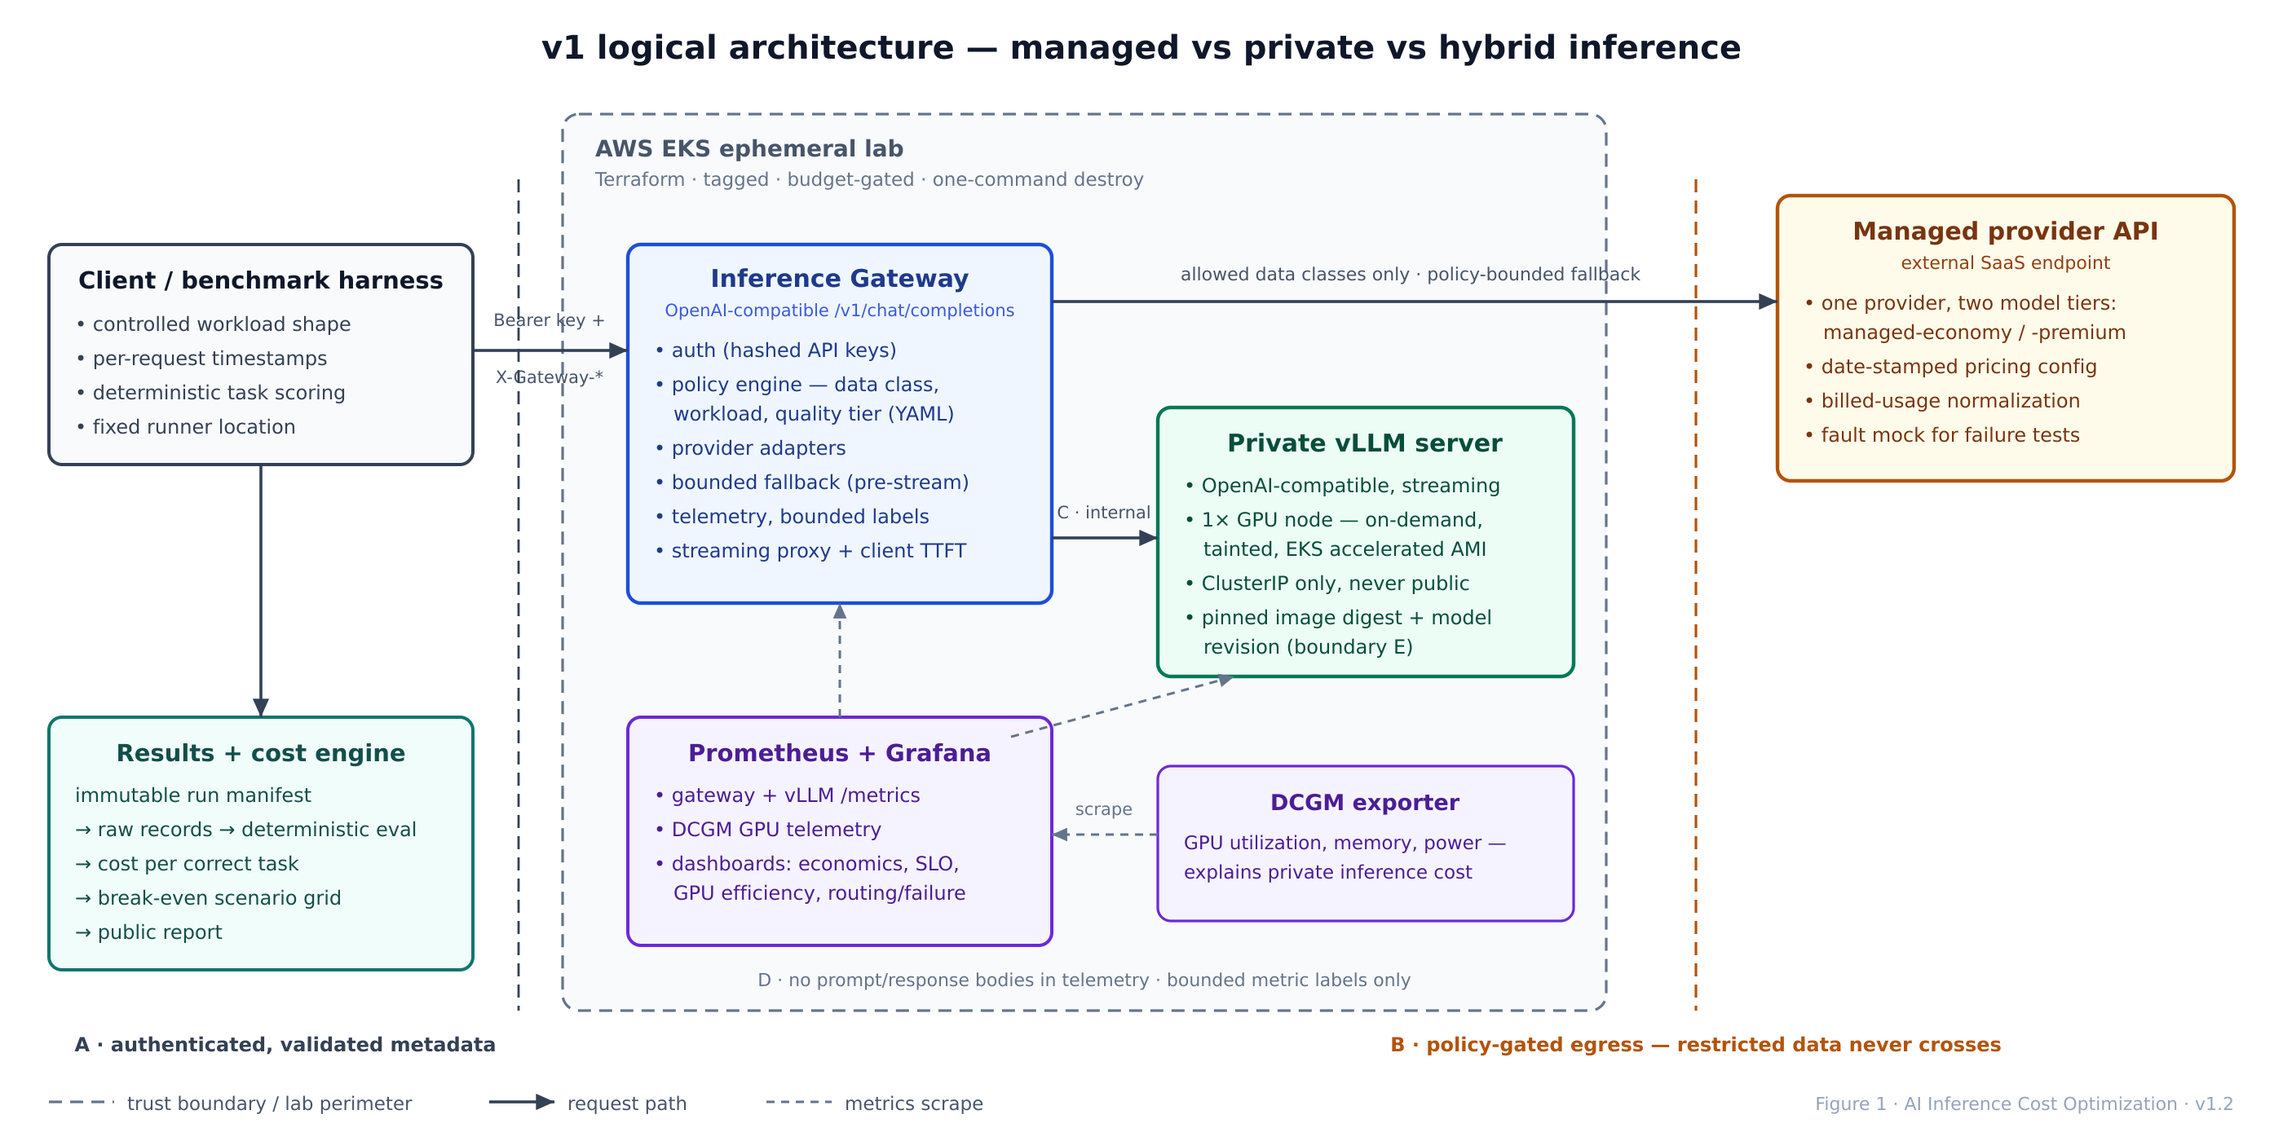
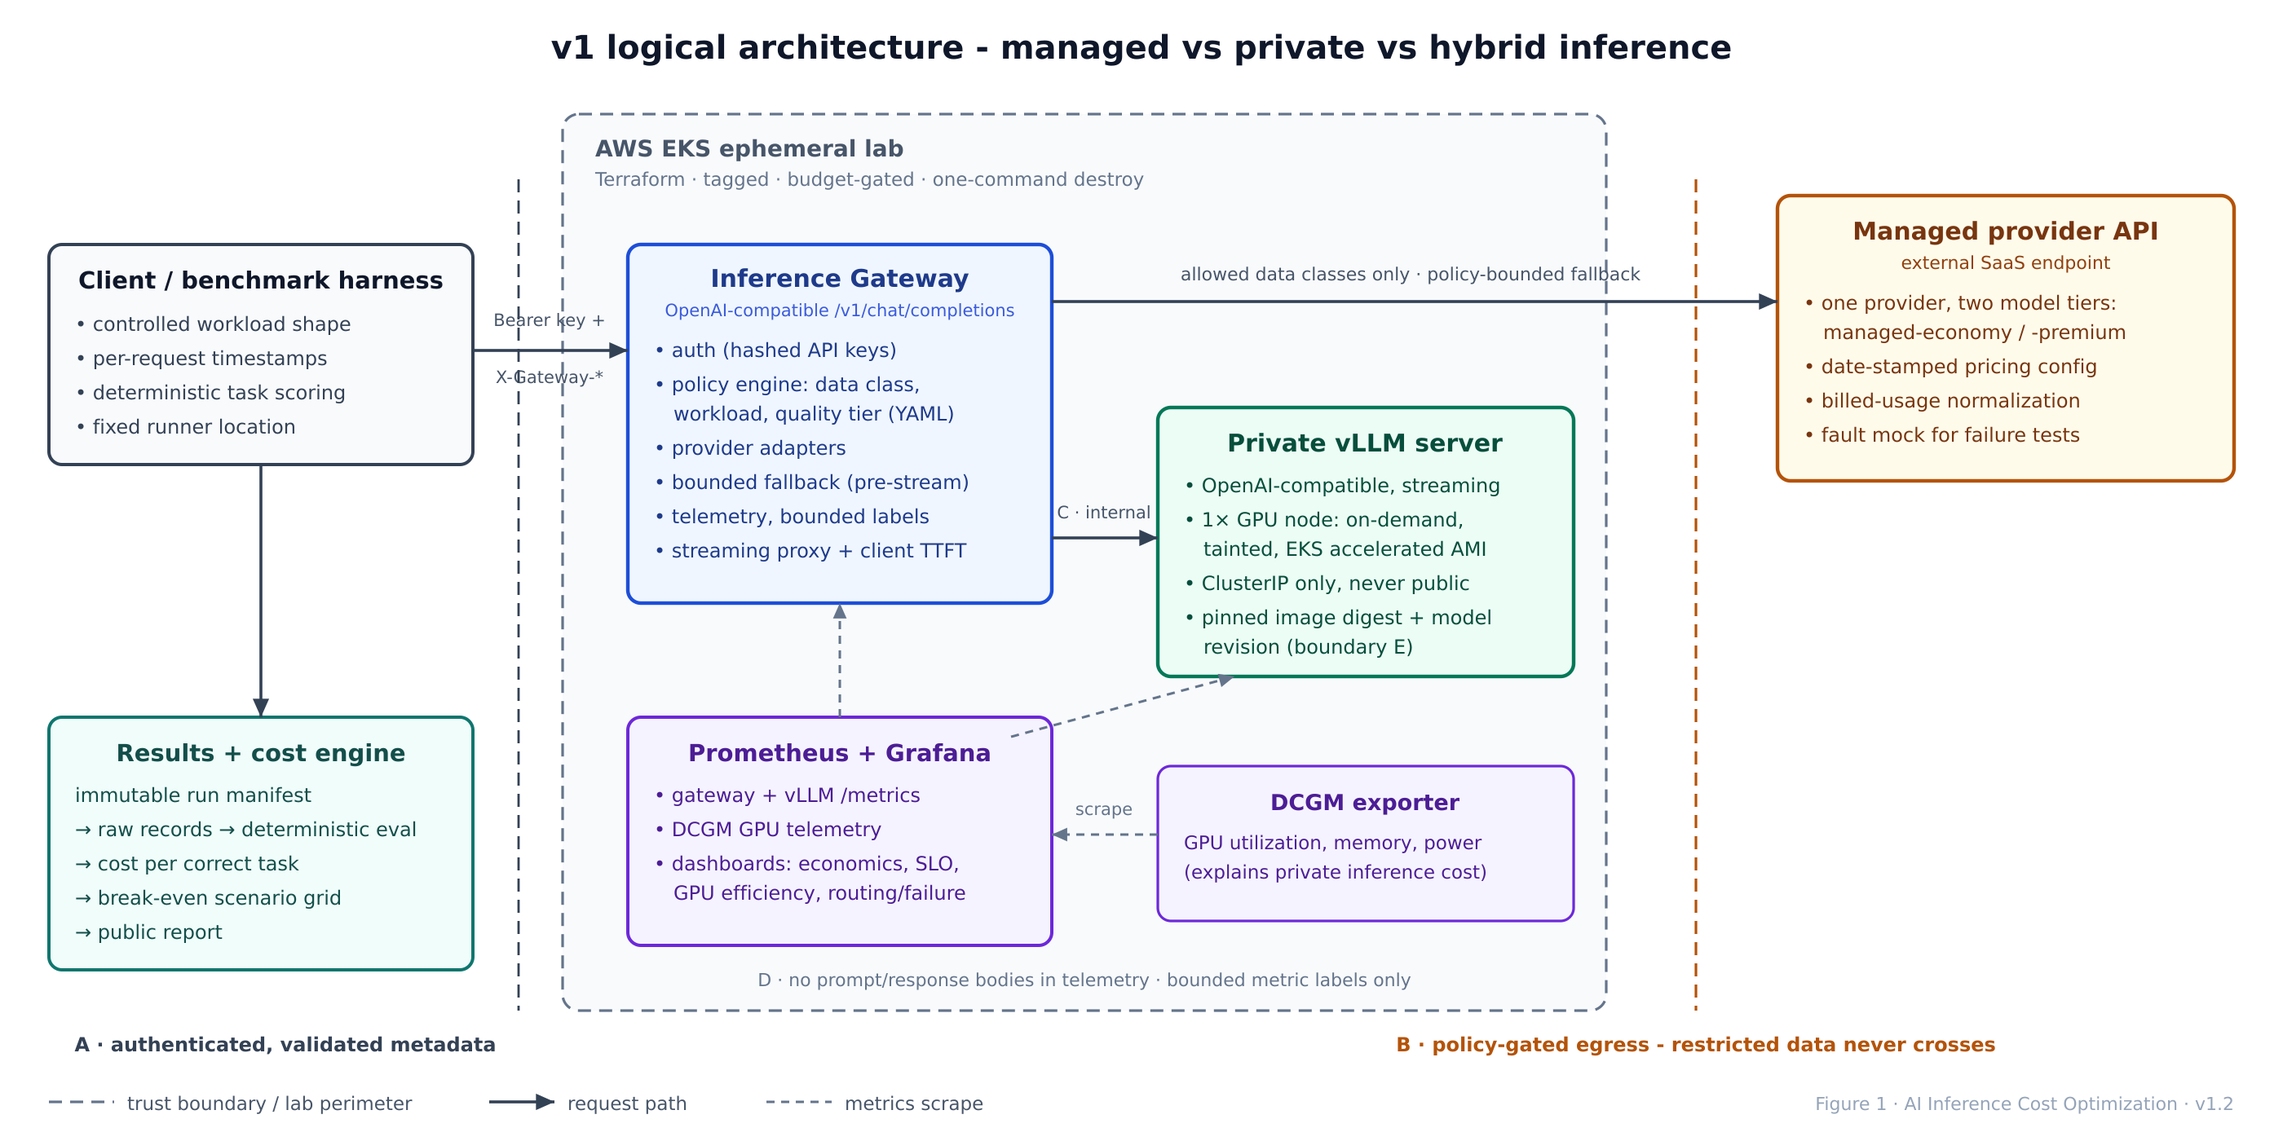
Tidy punctuation in docs and regenerate figure 1

diff --git a/TECHNICAL_SPEC.md b/TECHNICAL_SPEC.md
@@ -5,7 +5,7 @@
 
 Agent handoff for Claude / Codex | Version 1.2 | 15 August 2026
 
-> **North-star engineering question** — What is the lowest-cost production AI inference architecture that still meets defined quality, latency, reliability, security and availability requirements? The repository must answer this with reproducible evidence—not with a list of technologies.
+> **North-star engineering question** - What is the lowest-cost production AI inference architecture that still meets defined quality, latency, reliability, security and availability requirements? The repository must answer this with reproducible evidence, not with a list of technologies.
 
 **This specification is authoritative for v1. If an implementation choice conflicts with this document, either follow the spec or create an ADR explaining the change before coding it.**
 
@@ -103,7 +103,7 @@ The v1 implementation compares three delivery patterns under a common workload a
 
 ## 1.2 Durable engineering thesis
 
-> **Durable layer** — The business moat is not Kubernetes, vLLM, KServe, llm-d, any GPU model or any LLM vendor. The durable capability is: measure -> model economics -> architect -> optimize -> validate quality/SLO -> automate -> operate -> prove ROI. This specification therefore makes adapters, policies, benchmarks and evidence first-class, while treating runtimes as replaceable implementations.
+> **Durable layer** - The business moat is not Kubernetes, vLLM, KServe, llm-d, any GPU model or any LLM vendor. The durable capability is: measure -> model economics -> architect -> optimize -> validate quality/SLO -> automate -> operate -> prove ROI. This specification therefore makes adapters, policies, benchmarks and evidence first-class, while treating runtimes as replaceable implementations.
 
 ## 1.3 Non-negotiable engineering principles
 
@@ -188,11 +188,11 @@ The v1 implementation compares three delivery patterns under a common workload a
 | P1 - only after baseline | KEDA scale-out using queue metrics, Karpenter GPU provisioning/consolidation experiment, Spot experiment, persistent cost ledger or hard budget policy, richer traces, NetworkPolicy hardening, actual AWS Cost Explorer reconciliation, energy/request estimate. |
 | P2 - future extension    | KServe LLMInferenceService, Gateway API Inference Extension/llm-d, prefix-cache-aware routing, disaggregated prefill/decode, multi-GPU/multi-node, RAG authorization, agents/tools, multi-cloud, private/on-prem reference deployment.                            |
 
-> **Scope freeze** — Claude/Codex must not start P1 or P2 work to “complete the architecture” while any P0 acceptance criterion is failing. P1/P2 issues remain labeled and unassigned until the baseline report exists.
+> **Scope freeze** - Claude/Codex must not start P1 or P2 work to “complete the architecture” while any P0 acceptance criterion is failing. P1/P2 issues remain labeled and unassigned until the baseline report exists.
 
 # 4. System architecture
 
-![Figure 1 — v1 logical architecture](media/figure1_architecture.png)
+![Figure 1 - v1 logical architecture](media/figure1_architecture.png)
 
 Figure 1. v1 logical architecture. The custom gateway is intentionally thin: provider abstraction, policy, telemetry and failure handling. It must not become a general orchestration framework.
 
@@ -486,7 +486,7 @@ Timeouts are validated duration fields, applied to streaming and non-streaming p
 
 # 9. Benchmark and quality-evaluation specification
 
-![Figure 2 — benchmark evidence pipeline](media/image2.png)
+![Figure 2 - benchmark evidence pipeline](media/image2.png)
 
 Figure 2. Benchmark evidence pipeline. The run manifest is created before load begins, not reconstructed after the fact.
 
@@ -670,15 +670,15 @@ An out-of-cluster VPC runner requires an internal NLB/ALB or private Gateway, is
 
 - Every published comparison reports and labels both economic views:
 
-  - **View A — inference service economics (marginal):** managed cost includes token usage and provider-specific charges; private cost includes GPU runtime and private-serving-specific infrastructure. Shared platform costs are excluded from both. This view answers which inference mechanism is cheaper.
+  - **View A - inference service economics (marginal):** managed cost includes token usage and provider-specific charges; private cost includes GPU runtime and private-serving-specific infrastructure. Shared platform costs are excluded from both. This view answers which inference mechanism is cheaper.
 
-  - **View B — full-platform TCO:** both architectures include inference cost plus gateway runtime, network/NAT, control plane, storage, observability and an operations/engineering allocation. This view answers which architecture costs the organization less.
+  - **View B - full-platform TCO:** both architectures include inference cost plus gateway runtime, network/NAT, control plane, storage, observability and an operations/engineering allocation. This view answers which architecture costs the organization less.
 
 - Cost per request for each view.
 
 - Cost per 1M provider-billed/normalized tokens (only when token definition is meaningful and clearly labeled).
 
-- `cost_per_correct_task` for each view—the primary business metric.
+- `cost_per_correct_task` for each view, the primary business metric.
 
 - Monthly modeled cost across a volume × token-profile × quality-rate grid.
 
@@ -801,7 +801,7 @@ v1 deliberately uses standard EKS managed node groups. EKS Auto Mode is a consid
 
 ## 11.4 Cost safety controls
 
-> **Cloud safety gate** — No script may create GPU infrastructure unless the operator explicitly supplies/accepts a run budget and GPU count. The repository must provide cloud-down and verify-destroy before the first publishable benchmark is attempted.
+> **Cloud safety gate** - No script may create GPU infrastructure unless the operator explicitly supplies/accepts a run budget and GPU count. The repository must provide cloud-down and verify-destroy before the first publishable benchmark is attempted.
 
 - Terraform validation limits default GPU node count to 1 for P0.
 
@@ -1073,7 +1073,7 @@ Every target must return a meaningful non-zero exit code on failure. cloud-down 
 
 # 18. Milestones and implementation issue map
 
-![Figure 3 — delivery sequence](media/image3.png)
+![Figure 3 - delivery sequence](media/image3.png)
 
 Figure 3. Delivery sequence. Do not parallelize cloud complexity ahead of local contracts and measurement plumbing.
 
@@ -1267,7 +1267,7 @@ The v1 public Chat Completions surface is an interoperability adapter, not the i
 
 # 23. Agent execution contract
 
-> **Instruction to Claude/Codex** — Build the smallest complete system that satisfies the current milestone. Do not optimize for lines of code, number of tools or visual complexity. Optimize for reproducible evidence and a clean public case study.
+> **Instruction to Claude/Codex** - Build the smallest complete system that satisfies the current milestone. Do not optimize for lines of code, number of tools or visual complexity. Optimize for reproducible evidence and a clean public case study.
 
 ## 23.1 Required behavior for every agent change
 
@@ -1580,7 +1580,7 @@ These sources are included so implementation agents use current primary document
 
 # Final implementation directive
 
-> **Ship evidence, not architecture diagrams** — The first public release is complete when a reviewer can see the business decision, inspect the code and assumptions, rerun the lab, examine real benchmark records, understand what failed, and verify why one architecture is economically preferable under a stated workload. If a feature does not improve that evidence, defer it.
+> **Ship evidence, not architecture diagrams** - The first public release is complete when a reviewer can see the business decision, inspect the code and assumptions, rerun the lab, examine real benchmark records, understand what failed, and verify why one architecture is economically preferable under a stated workload. If a feature does not improve that evidence, defer it.
 
 # Changelog
 

diff --git a/docs/implementation-status.md b/docs/implementation-status.md
@@ -54,7 +54,7 @@ linted and zero failed for each of gateway and vLLM. The standalone Helm renderi
 3 passed. Direct `uv` commands used `UV_CACHE_DIR=/tmp/gateway-uv-cache` because the default cache
 filesystem is read-only in this environment.
 
-## Previous milestone: M5 — vLLM serving and observability (offline implementation complete)
+## Previous milestone: M5 - vLLM serving and observability (offline implementation complete)
 
 | Item | Status |
 |---|---|
@@ -66,7 +66,7 @@ filesystem is read-only in this environment.
 | Benchmark manifest consumption of model revision, image digest, runtime, GPU, and chart pins | Implemented; unit tested |
 | Live gateway-to-vLLM completion and vLLM/GPU metric visibility | Pending operator credentials, budget, model/image resolution, and cluster creation |
 
-## Previous milestone: M4 — AWS EKS + GPU infrastructure (offline implementation complete)
+## Previous milestone: M4 - AWS EKS + GPU infrastructure (offline implementation complete)
 
 | Item | Status |
 |---|---|
@@ -80,7 +80,7 @@ filesystem is read-only in this environment.
 | Path-filtered Terraform/Helm/config-scan CI | Implemented |
 | Fresh create, M5 smoke, destroy, and verify-destroy cycle | Pending operator inputs and M5 workload deployment |
 
-## Previous milestone: M3 — Local/mock end-to-end evidence (complete)
+## Previous milestone: M3 - Local/mock end-to-end evidence (complete)
 
 | Item | Status |
 |---|---|
@@ -94,7 +94,7 @@ filesystem is read-only in this environment.
 | CI integration and separate smoke jobs | Done |
 | Local-lab runbook | Done |
 
-## Previous milestone: M2 — Benchmark + eval (complete)
+## Previous milestone: M2 - Benchmark + eval (complete)
 
 | Item | Status |
 |---|---|
@@ -109,7 +109,7 @@ filesystem is read-only in this environment.
 | Local mock report path producing summary, quality, cost, and comparison files | Done |
 | Unit, contract, and integration coverage for issues #11 through #16 | Done |
 
-## Previous milestone: M1 — Gateway + adapters (complete)
+## Previous milestone: M1 - Gateway + adapters (complete)
 
 | Item | Status |
 |---|---|
@@ -123,7 +123,7 @@ filesystem is read-only in this environment.
 | Prometheus metrics per spec §13.1 with bounded labels | Done |
 | Routing acceptance tests: all data_class × quality_tier cells, fail-closed, no-replay, sentinel log check | Done |
 
-## Previous milestone: M0 — Repo + contracts (complete)
+## Previous milestone: M0 - Repo + contracts (complete)
 
 | Item | Status |
 |---|---|
@@ -175,21 +175,21 @@ filesystem is read-only in this environment.
   referenced SLO cells. An initial direct invocation without the writable cache override failed
   before test collection because the default uv cache filesystem is read-only.
 
-- `export PATH="$HOME/.local/bin:$PATH" && uv --version && uv lock` — failed before
+- `export PATH="$HOME/.local/bin:$PATH" && uv --version && uv lock` - failed before
   resolution because the default cache path was read-only. The Makefile now exports
   `UV_CACHE_DIR=/tmp/gateway-uv-cache` by default.
 - `export PATH="$HOME/.local/bin:$PATH" && export UV_CACHE_DIR=/tmp/gateway-uv-cache && uv lock`
-  — failed because DNS access to the package index was unavailable in the execution environment.
+  - failed because DNS access to the package index was unavailable in the execution environment.
 - `export PATH="$HOME/.local/bin:$PATH" && export UV_CACHE_DIR=/tmp/gateway-uv-cache && uv lock
-  --offline --no-index --find-links /tmp/gateway-wheelhouse` — passed; resolved 22 packages from
+  --offline --no-index --find-links /tmp/gateway-wheelhouse` - passed; resolved 22 packages from
   locally available distributions. The committed lock references the corresponding registry
   artifacts rather than the temporary wheelhouse.
 - `export PATH="$HOME/.local/bin:$PATH" && make bootstrap && make lint && make test && make
-  test-contract` — passed. Bootstrap resolved 22 packages; Ruff check and format check passed;
+  test-contract` - passed. Bootstrap resolved 22 packages; Ruff check and format check passed;
   mypy reported no issues in 11 source files; unit tests reported 29 passed; contract tests
   reported 14 passed.
 - `export PATH="$HOME/.local/bin:$PATH" && export UV_CACHE_DIR=/tmp/gateway-uv-cache && uv lock
-  --check --offline && uv sync --frozen && make test-integration` — passed. The lock resolved 22
+  --check --offline && uv sync --frozen && make test-integration` - passed. The lock resolved 22
   packages, the frozen environment check covered 21 installed packages, and the M0 compatibility
   integration target reported 43 passed.
 - Post-review hardening: mypy stub-agnostic YAML resolver registration, dependency audit wired to
@@ -197,7 +197,7 @@ filesystem is read-only in this environment.
   (29 passed), `make test-contract` (14 passed) verified locally; CI and Security workflows green
   on main.
 - M1 verification: `make lint` clean (ruff + mypy strict), `make test` / `make test-contract` /
-  `make test-integration` — 123 tests passed locally.
+  `make test-integration` - 123 tests passed locally.
 - M1 peer-review hardening: bounded model-alias metric labels, no SDK-internal retries on the
   managed path, configured timeouts applied to the managed client, per-attempt limits on
   streaming, in-band stream errors normalized, structural SSE validation, real HTTP statuses for

diff --git a/docs/demo-script.md b/docs/demo-script.md
@@ -22,13 +22,13 @@ export RUN_ID='<printed run ID>'
 make report RUN_ID="$RUN_ID"
 ```
 
-## 0:00-0:30 — decision
+## 0:00-0:30 - decision
 
 Open the repository README. State the question: when does a managed API, private one-GPU vLLM
 service, or hybrid policy minimize `cost_per_correct_task` while meeting a declared SLO? Point out
 that only local mock evidence exists and cloud conclusions are pending.
 
-## 0:30-1:10 — local stack and architecture
+## 0:30-1:10 - local stack and architecture
 
 Show `media/figure1_architecture.png`, then show the command used to start the two local services:
 
@@ -40,7 +40,7 @@ Explain that it starts the gateway and deterministic fault service with an ephem
 same gateway surface fronts managed, private, and hybrid routes. Do not leave this blocking
 command running while repeating the automated smoke on the default ports; stop it with Ctrl-C.
 
-## 1:10-1:40 — smoke
+## 1:10-1:40 - smoke
 
 Show the completed output from:
 
@@ -52,7 +52,7 @@ Walk through the checks it reports: unauthenticated refusal, non-streaming and s
 restricted routing through the private adapter, and the Prometheus request counter. Note whether
 the command used loopback HTTP or its in-process HTTP fallback.
 
-## 1:40-2:20 — injected faults
+## 1:40-2:20 - injected faults
 
 Show the newest local fault artifact:
 
@@ -64,7 +64,7 @@ make fault-evidence
 Summarize the verified behaviors without converting timings into performance claims: normalized
 429, 5xx, timeout, malformed response, fallback, and no replay after streaming content begins.
 
-## 2:20-3:10 — hybrid benchmark report
+## 2:20-3:10 - hybrid benchmark report
 
 Show the frozen scenario and regenerate the already-created report:
 
@@ -86,7 +86,7 @@ comparison.csv
 Point to the request mix, route mix, SLO evaluation, and separately labeled View A and View B
 fields. State that the values are deterministic local mock plumbing evidence.
 
-## 3:10-3:40 — dashboards
+## 3:10-3:40 - dashboards
 
 List the dashboard sources:
 
@@ -98,7 +98,7 @@ Show the SLO, routing/failure, GPU efficiency, and economics dashboard definitio
 wired for DCGM but have no local GPU evidence. The cloud runbook uses the same definitions after
 deployment.
 
-## 3:40-4:00 — boundary and next run
+## 3:40-4:00 - boundary and next run
 
 Close on the evidence table in the README. The next claim-bearing step is the guarded M6 T0/T1
 cloud comparison followed by M7 hybrid and failure runs. The runbook requires raw evidence export,

diff --git a/README.md b/README.md
@@ -46,9 +46,9 @@ versioned SLO cell. Ineligible treatments still report cost but cannot be recomm
 
 Every report keeps two economic views separate:
 
-- **View A — inference service economics:** managed token/provider charges versus private GPU and
+- **View A - inference service economics:** managed token/provider charges versus private GPU and
   serving-specific costs.
-- **View B — full-platform TCO:** View A plus gateway, network/NAT, control plane, storage,
+- **View B - full-platform TCO:** View A plus gateway, network/NAT, control plane, storage,
   observability, and an explicit operations allocation.
 
 Break-even output is a sensitivity table or curve over workload, token profile, utilization,

diff --git a/CONTRIBUTING.md b/CONTRIBUTING.md
@@ -4,5 +4,5 @@ This is a personal evidence project with a frozen v1 scope (TECHNICAL_SPEC.md).
 
 - P0 requirements and milestone acceptance criteria are mandatory; P1/P2 wait for the baseline report.
 - Material architecture deviations require an ADR (docs/adrs/) before or with the change.
-- Published benchmark data is immutable — new code creates a new run ID.
+- Published benchmark data is immutable - new code creates a new run ID.
 - Every change states which milestone/requirement IDs it addresses and includes tests.

diff --git a/docs/runbooks/benchmark-runs.md b/docs/runbooks/benchmark-runs.md
@@ -1,6 +1,6 @@
 # Cloud benchmark runs
 
-> **PENDING — no real T0, T1, T3, or T4 cloud run has been completed.** Do not use this runbook
+> **PENDING: no real T0, T1, T3, or T4 cloud run has been completed.** Do not use this runbook
 > until valid AWS credentials, `ANTHROPIC_API_KEY`, the cluster created from the
 > [cloud-lab runbook](cloud-lab.md), and the immutable deploy manifest written by
 > `scripts/deploy.sh` are available. `results/published/` remains empty except for its contract.

diff --git a/docs/runbooks/cloud-lab.md b/docs/runbooks/cloud-lab.md
@@ -1,6 +1,6 @@
 # AWS cloud-lab runbook
 
-> **PENDING — no AWS create/deploy/smoke/destroy cycle has been executed.** Operator credentials,
+> **PENDING: no AWS create/deploy/smoke/destroy cycle has been executed.** Operator credentials,
 > an approved run budget, immutable model revision, and image digests have not been supplied. M4
 > and M5 validation is offline only.
 
